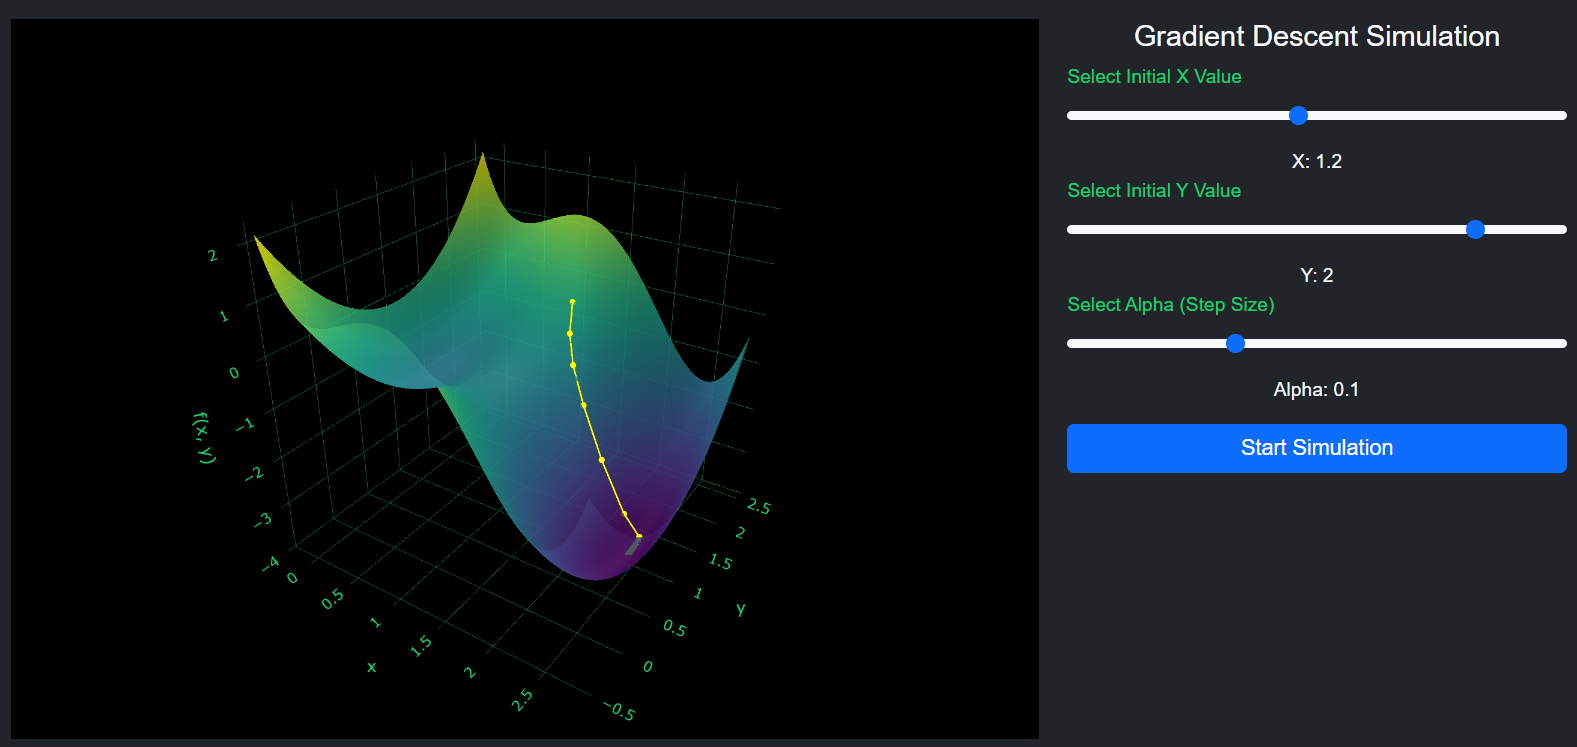
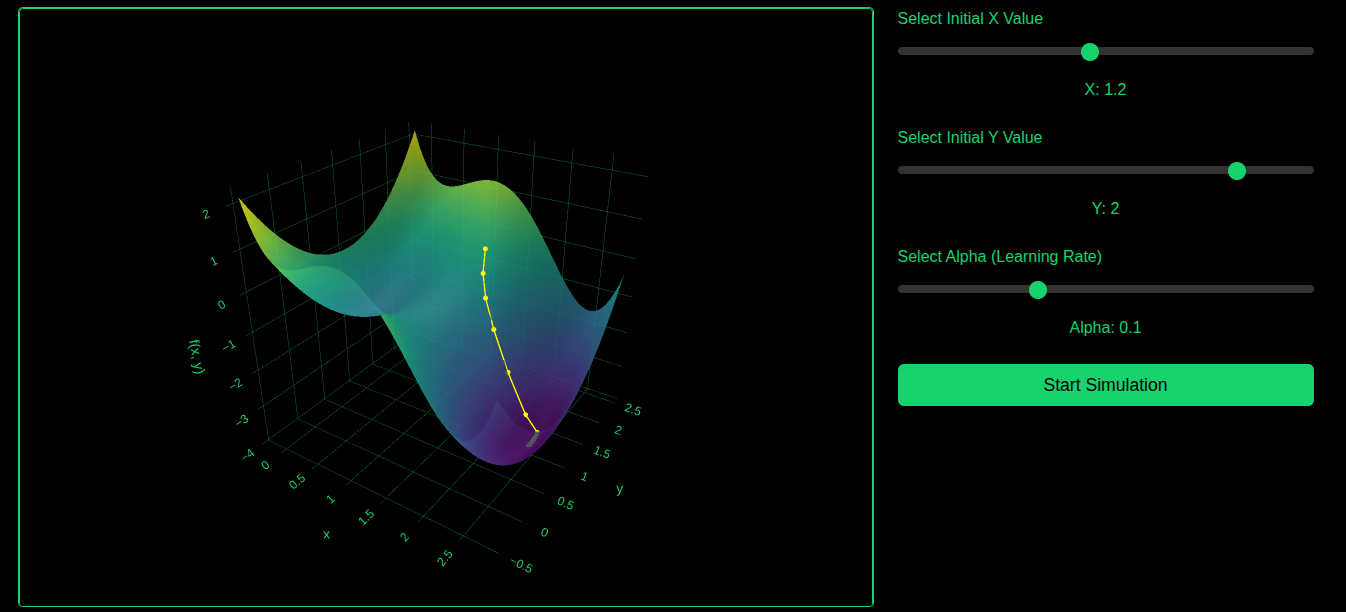
feat(gradient-descend-3D): enhance UI with improved styling, detailed algorithm description, and example tips for better user guidance.

diff --git a/gradient-descend-3D/index.html b/gradient-descend-3D/index.html
@@ -10,35 +10,63 @@
     <script src="https://cdn.plot.ly/plotly-latest.min.js"></script>
     <link rel="stylesheet" href="./css/style.css">
 </head>
-<body class="bg-dark text-light">
+<body>
 
-<div class="container">
+<div class="container my-4">
+    <h1 class="text-center mb-2">Gradient Descent Visualization 3D</h1>
+
+    <div class="info-panel">
+    <p>Gradient descent is an optimization algorithm used to minimize a function by iteratively moving in the direction of steepest descent. 
+      It's widely used in machine learning for training models and finding optimal parameters.
+      This visualization demonstrates how the algorithm converges towards a local minimum by iteratively updating the input based on the gradient of the function:
+    </p>
+    <div class="function-display">
+        f(x, y) = x⁴ - 5x³ + 7x² - 3x + 7y² - 2y
+    </div>
+    <p>This function exhibits multiple turning points and provides a clear visual representation of how gradient descent behaves in the presence of local minima and maxima.</p>
+    </div>
+
     <div class="row mt-5">
         <div class="col-md-8">
             <div id="plotly-3d" class="plot-container"></div>
         </div>
         <div class="col-md-4">
-            <h4 class="text-center">Gradient Descent Simulation</h4>
             
             <!-- X Slider -->
             <label for="x-slider" class="form-label">Select Initial X Value</label>
             <input type="range" class="form-range" id="x-slider" min="-0.2" max="2.85" step="0.03" value="1.2">
-            <div class="text-center" id="x-value">X: 1.2</div>
+            <div class="text-center mb-4" id="x-value">X: 1.2</div>
 
             <!-- Y Slider -->
             <label for="y-slider" class="form-label">Select Initial Y Value</label>
             <input type="range" class="form-range" id="y-slider" min="-0.5" max="2.5" step="0.03" value="2">
-            <div class="text-center" id="y-value">Y: 2</div>
+            <div class="text-center mb-4" id="y-value">Y: 2</div>
 
             <!-- Step (Alpha) Slider -->
-            <label for="alpha-slider" class="form-label">Select Alpha (Step Size)</label>
+            <label for="alpha-slider" class="form-label">Select Alpha (Learning Rate)</label>
             <input type="range" class="form-range" id="alpha-slider" min="0.001" max="0.3" step="0.001" value="0.1">
-            <div class="text-center" id="alpha-value">Alpha: 0.1</div>
+            <div class="text-center mb-4" id="alpha-value">Alpha: 0.1</div>
 
             <!-- Start Button -->
-            <button id="start-button" class="btn btn-primary w-100 mt-3">Start Simulation</button>
+            <button id="start-button" class="btn btn-success w-100 mt-3">Start Simulation</button>
         </div>
     </div>
+
+    <div class="tips">
+      <h4>Try These Examples:</h4>
+      <ul>
+        <li><strong>Small alpha (0.01)</strong> with initial x = 1.2, y = 2: Shows slow but stable convergence</li>
+        <li><strong>Large alpha (0.2)</strong> with initial x = 1.2, y = 2: Oscillate and diverge</li>
+        <li><strong>Very large alpha (0.3)</strong> with initial x = 1.2, y = 2: Overshoot the global minimum</li>
+        <li><strong>Optimal alpha (0.1)</strong> with initial x = 1.2, y = 2: Efficient convergence to minimum</li>
+      </ul>
+    </div>
+
+    <footer class="text-center mt-4 pt-3" style="border-top: 1px solid #333;">
+        <p class="text-muted mb-2">
+            <small>Created by <strong style="color: #18d26e;">Gustavo Torres Guerrero</strong></small>
+        </p>
+    </footer>
 </div>
 
 <!-- Include JavaScript -->

diff --git a/gradient-descend-3D/css/style.css b/gradient-descend-3D/css/style.css
@@ -1,11 +1,18 @@
 body {
+    background-color: black;
+    color: #18d26e;
     font-family: 'Arial', sans-serif;
 }
 
 .plot-container {
+    background-color: black;
+    border: 1px solid #18d26e;
+    border-radius: 5px;
     width: 100%;
     height: 600px;
-    margin: 0 auto;
+    box-sizing: border-box;
+    position: relative;
+    overflow: hidden;
 }
 
 label {
@@ -19,3 +26,93 @@ label {
 #start-button {
     font-size: 18px;
 }
+
+.plot-container .js-plotly-plot .plotly, 
+.plot-container .js-plotly-plot .plotly div {
+    border-radius: 5px;
+}
+
+.form-range::-webkit-slider-runnable-track {
+    background-color: #333;
+    height: 8px;
+    border-radius: 4px;
+}
+
+.form-range::-webkit-slider-thumb {
+    background-color: #18d26e;
+    width: 18px;
+    height: 18px;
+    border-radius: 50%;
+}
+
+.form-range::-moz-range-track {
+    background-color: #333;
+}
+
+.form-range::-moz-range-thumb {
+    background-color: #18d26e;
+    width: 18px;
+    height: 18px;
+    border-radius: 50%;
+    border: none;
+}
+
+#start-button {
+    display: flex;
+    align-items: center;
+    justify-content: center;
+    background-color: #18d26e;
+    border: none;
+    font-size: 1.1rem;
+    padding: 8px 20px;
+    cursor: pointer;
+    color: black;
+    transition: background-color 0.3s;
+    margin: 15px auto;
+}
+
+#start-button:hover {
+    background-color: #0D3512;
+    color: #18d26e;
+}
+
+.info-panel {
+    background-color: #0a1a12;
+    border-radius: 8px;
+    padding: 10px;
+    border: 1px solid #18d26e;
+}
+
+.function-display {
+    font-family: 'Courier New', monospace;
+    background-color: #0D3512;
+    padding: 5px 15px;
+    border-radius: 5px;
+    margin: 10px 0;
+    text-align: center;
+}
+
+.tips {
+    margin-top: 20px;
+    padding: 15px;
+    background-color: #0D3512;
+    border-radius: 5px;
+}
+
+.tips h4 {
+    color: #18d26e;
+    margin-bottom: 10px;
+}
+
+.tips ul {
+    padding-left: 20px;
+    margin-bottom: 0;
+}
+
+.tips li {
+    margin-bottom: 8px;
+}
+
+.text-muted {
+    color: #888 !important;
+}   
